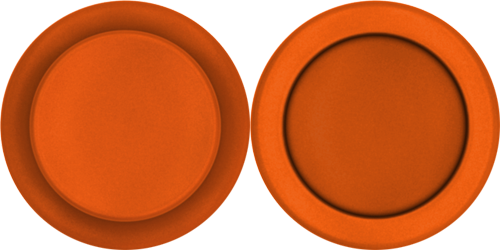
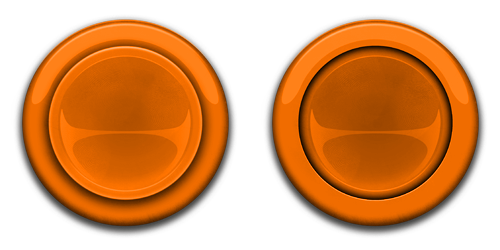
new buttons

diff --git a/public/stylesheets/main.css b/public/stylesheets/main.css
@@ -40,16 +40,17 @@ td { padding: 5px 10px; }
 .nav_bar {
 	display: block;
 	margin: 0 auto;
-	width: 960px;
+	width: 100%;
 	padding:5px 0;
 	color: #282625;
+	background-color: #ccc;
 	font-size: 140%;
 	text-transform: uppercase; }
 .nav_bar a:link, .nav_bar a:visited, .nav_bar a:hover {
 	color: #f15306;
 	background-color: #282625;
 	padding: 5px 10px;
-	margin: 0 4px;
+	margin: 0;
 	text-decoration: none;
 	font-size: 100%; }
 .nav_bar a:hover {

diff --git a/app/controllers/application_controller.rb b/app/controllers/application_controller.rb
@@ -6,6 +6,15 @@ class ApplicationController < ActionController::Base
     @count = Page.count
   end
   
+  def admin?
+    if user_signed_in?
+      if !current_user.admin?
+        flash[:notice] = 'You do not have access to this section.'
+        redirect_to('/users/sign_in')
+      end
+    end
+  end
+  
   private
      
      def auth_soundcloud
@@ -13,12 +22,14 @@ class ApplicationController < ActionController::Base
      end
      
       def after_sign_in_path_for(resource)
-        "/user/#{current_user.username}" # <- Path you want to redirect the user to after signup
+        root_path # <- Path you want to redirect the user to after signup
       end
 
       def after_sign_up_path_for(resource)
-        "/user/#{current_user.username}" # <- Path you want to redirect the user to after signup
+        root_path # <- Path you want to redirect the user to after signup
       end
+      
+      
 
   layout :layout_by_resource
 
@@ -31,5 +42,6 @@ class ApplicationController < ActionController::Base
       "application"
     end
   end
+  
      
 end

diff --git a/app/helpers/admin_helper.rb b/app/helpers/admin_helper.rb
@@ -1,15 +1,15 @@
 module AdminHelper
 
-def iphone?
-  request.env["HTTP_USER_AGENT"] && request.env["HTTP_USER_AGENT"][/(iPhone|iPod|iPad)/]
-end
+  def iphone?
+    request.env["HTTP_USER_AGENT"] && request.env["HTTP_USER_AGENT"][/(iPhone|iPod|iPad)/]
+  end
 
-def ie?
-  request.env["HTTP_USER_AGENT"] && request.env["HTTP_USER_AGENT"][/(MSIE)/]
-end
+  def ie?
+    request.env["HTTP_USER_AGENT"] && request.env["HTTP_USER_AGENT"][/(MSIE)/]
+  end
 
-def android?
-  request.env["HTTP_USER_AGENT"] && request.env["HTTP_USER_AGENT"][/(Android)/]
-end
+  def android?
+    request.env["HTTP_USER_AGENT"] && request.env["HTTP_USER_AGENT"][/(Android)/]
+  end
 
 end

diff --git a/app/helpers/application_helper.rb b/app/helpers/application_helper.rb
@@ -12,4 +12,14 @@ module ApplicationHelper
     request.env["HTTP_USER_AGENT"] && request.env["HTTP_USER_AGENT"][/(Android)/]
   end
   
+  def admin?
+    if user_signed_in?
+      if !current_user.admin?
+        flash[:notice] = 'You do not have access to this section.'
+        redirect_to('/users/sign_in')
+      end
+      return true
+    end
+  end
+  
 end

diff --git a/app/controllers/page_controller.rb b/app/controllers/page_controller.rb
@@ -69,8 +69,7 @@ class PageController < ApplicationController
   def destroy
     @page = Page.find(params[:id]).destroy
     flash[:notice] = "Successfully Deleted Page."
-    user = "/user/#{current_user.username}"
-    redirect_to user
+    redirect_to root_path
   end
   
   def about

diff --git a/config/routes.rb b/config/routes.rb
@@ -20,6 +20,8 @@ PushItRealGood::Application.routes.draw do
   
   match 'goodbyevincent' => 'vince#index'
   
+  match 'admin' => 'admin#index'
+  
   namespace :admin do
     resources :buttons
   end

diff --git a/app/controllers/admin_controller.rb b/app/controllers/admin_controller.rb
@@ -3,7 +3,7 @@ class AdminController < ApplicationController
   before_filter :authenticate_user!, :admin?
   
   def index
-    
+    redirect_to '/users/sign_in'
   end
   
   def buttons 
